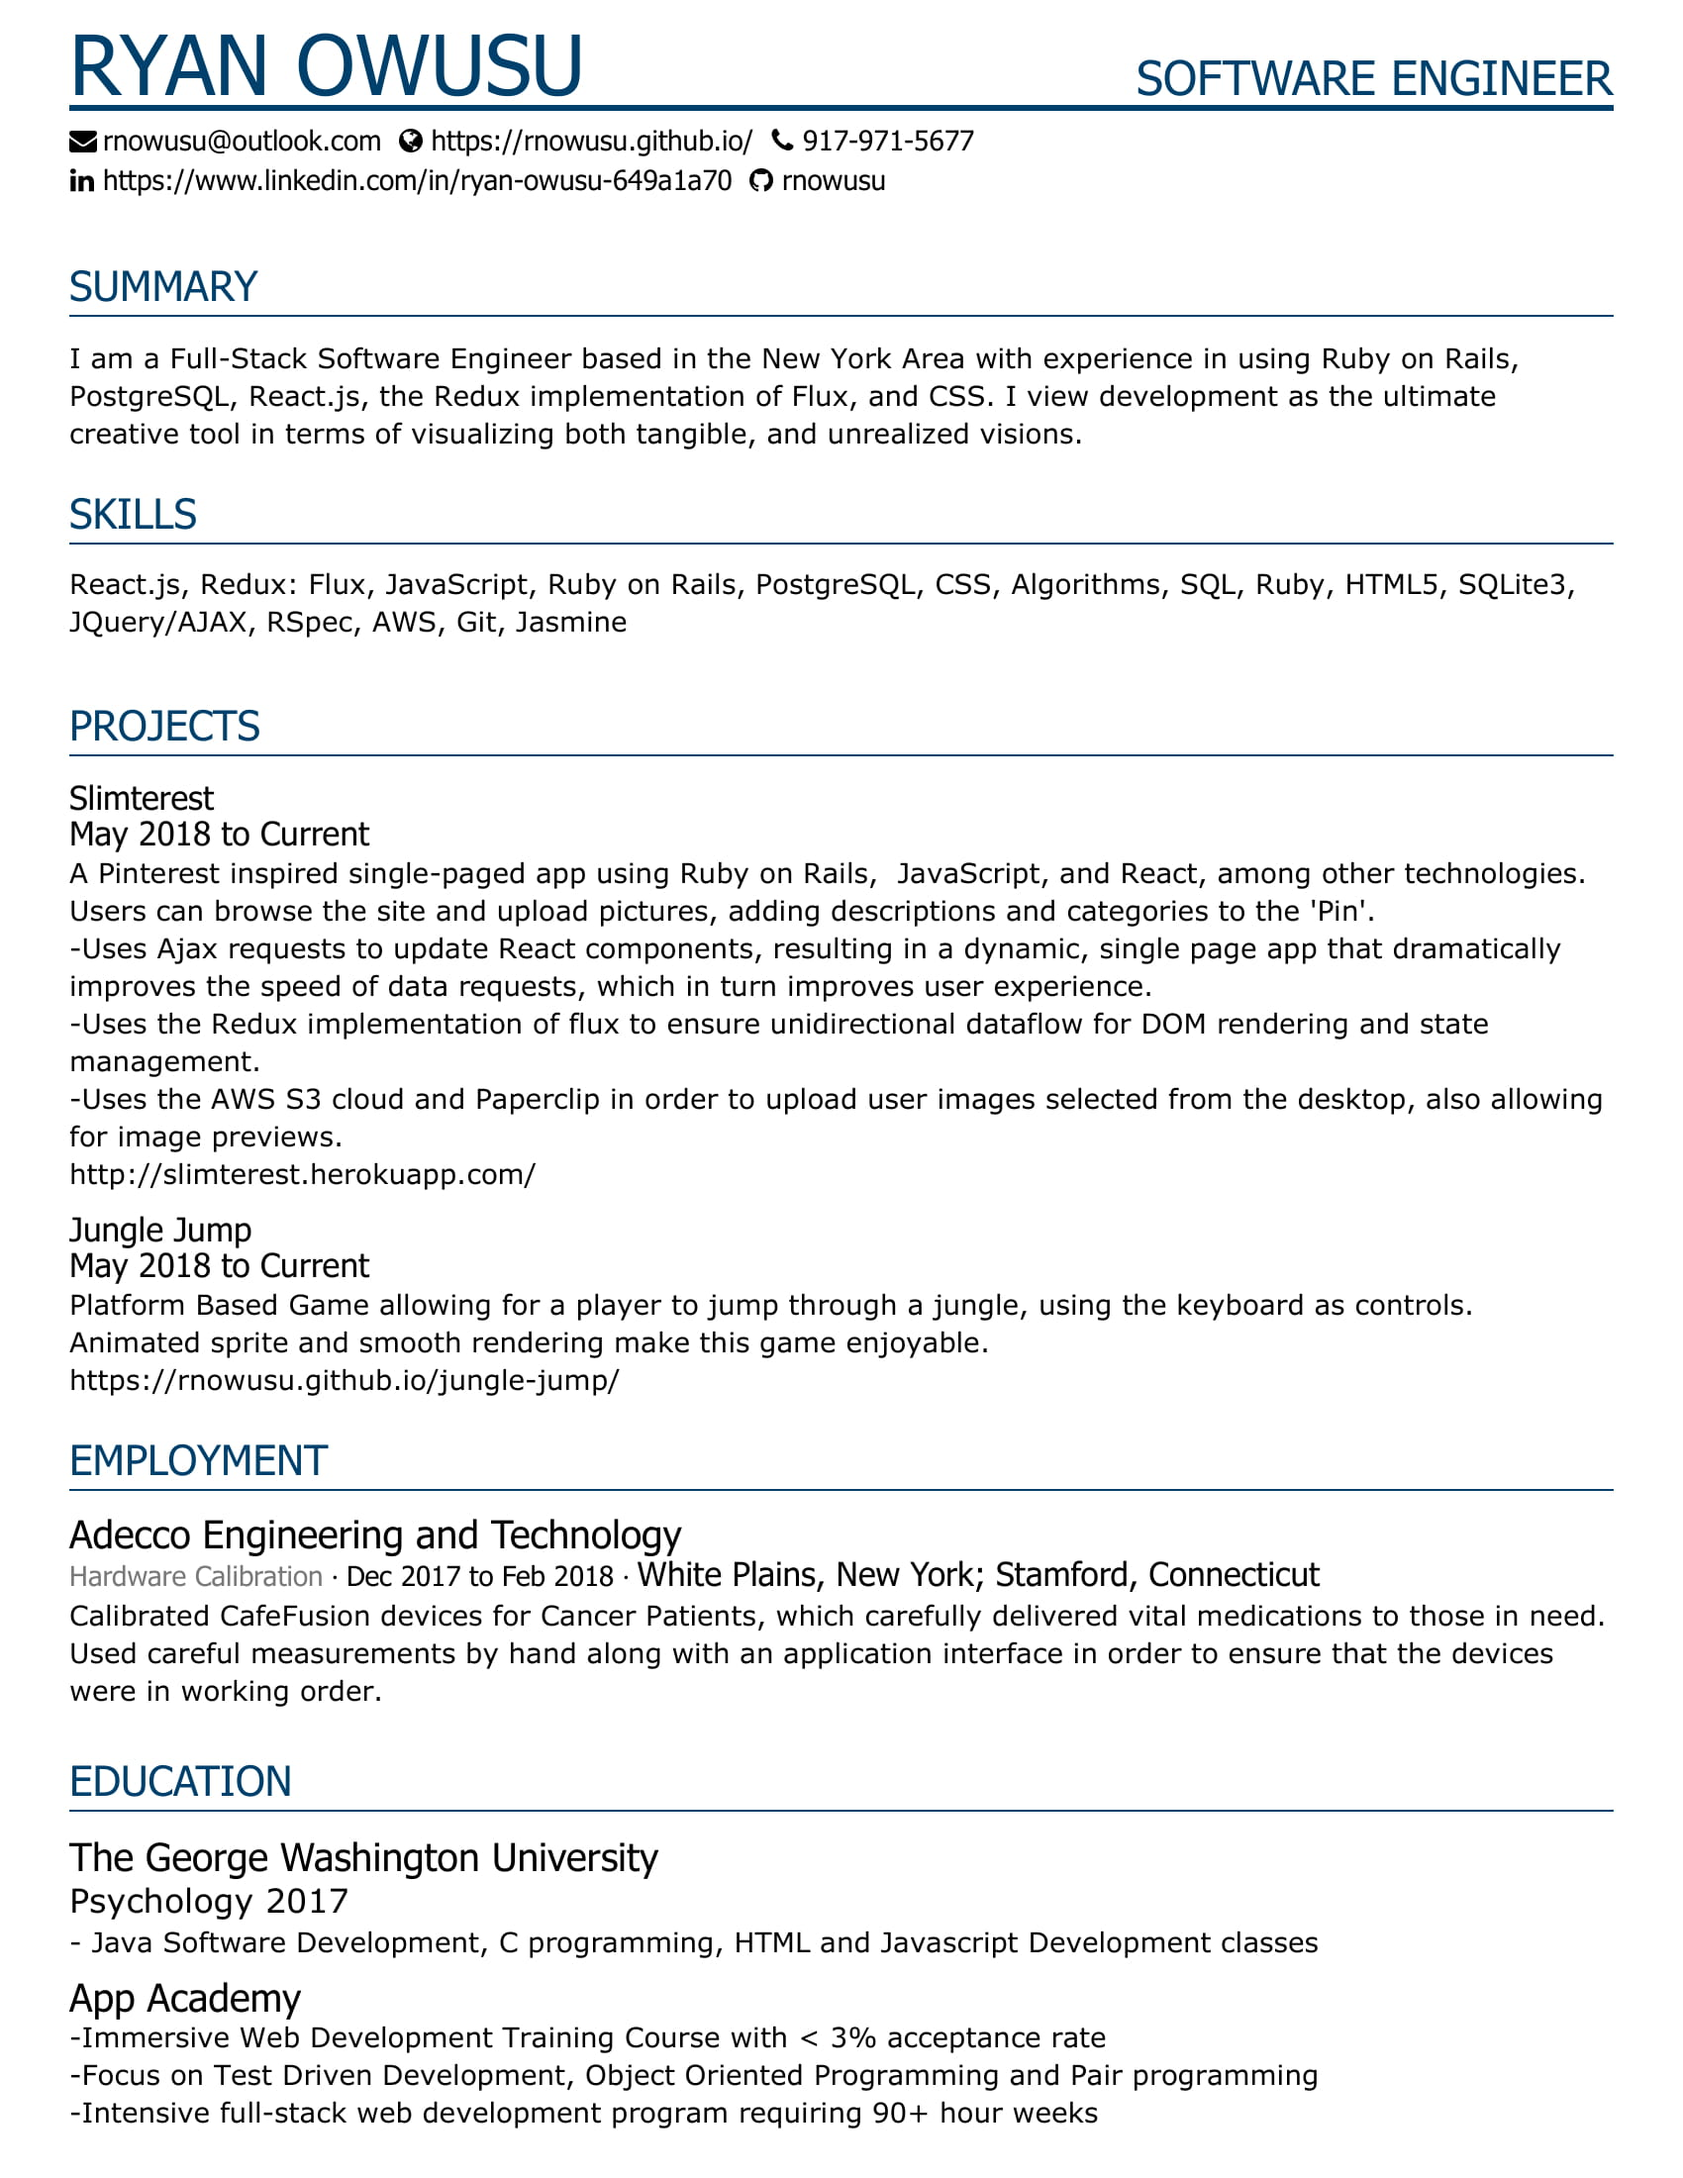
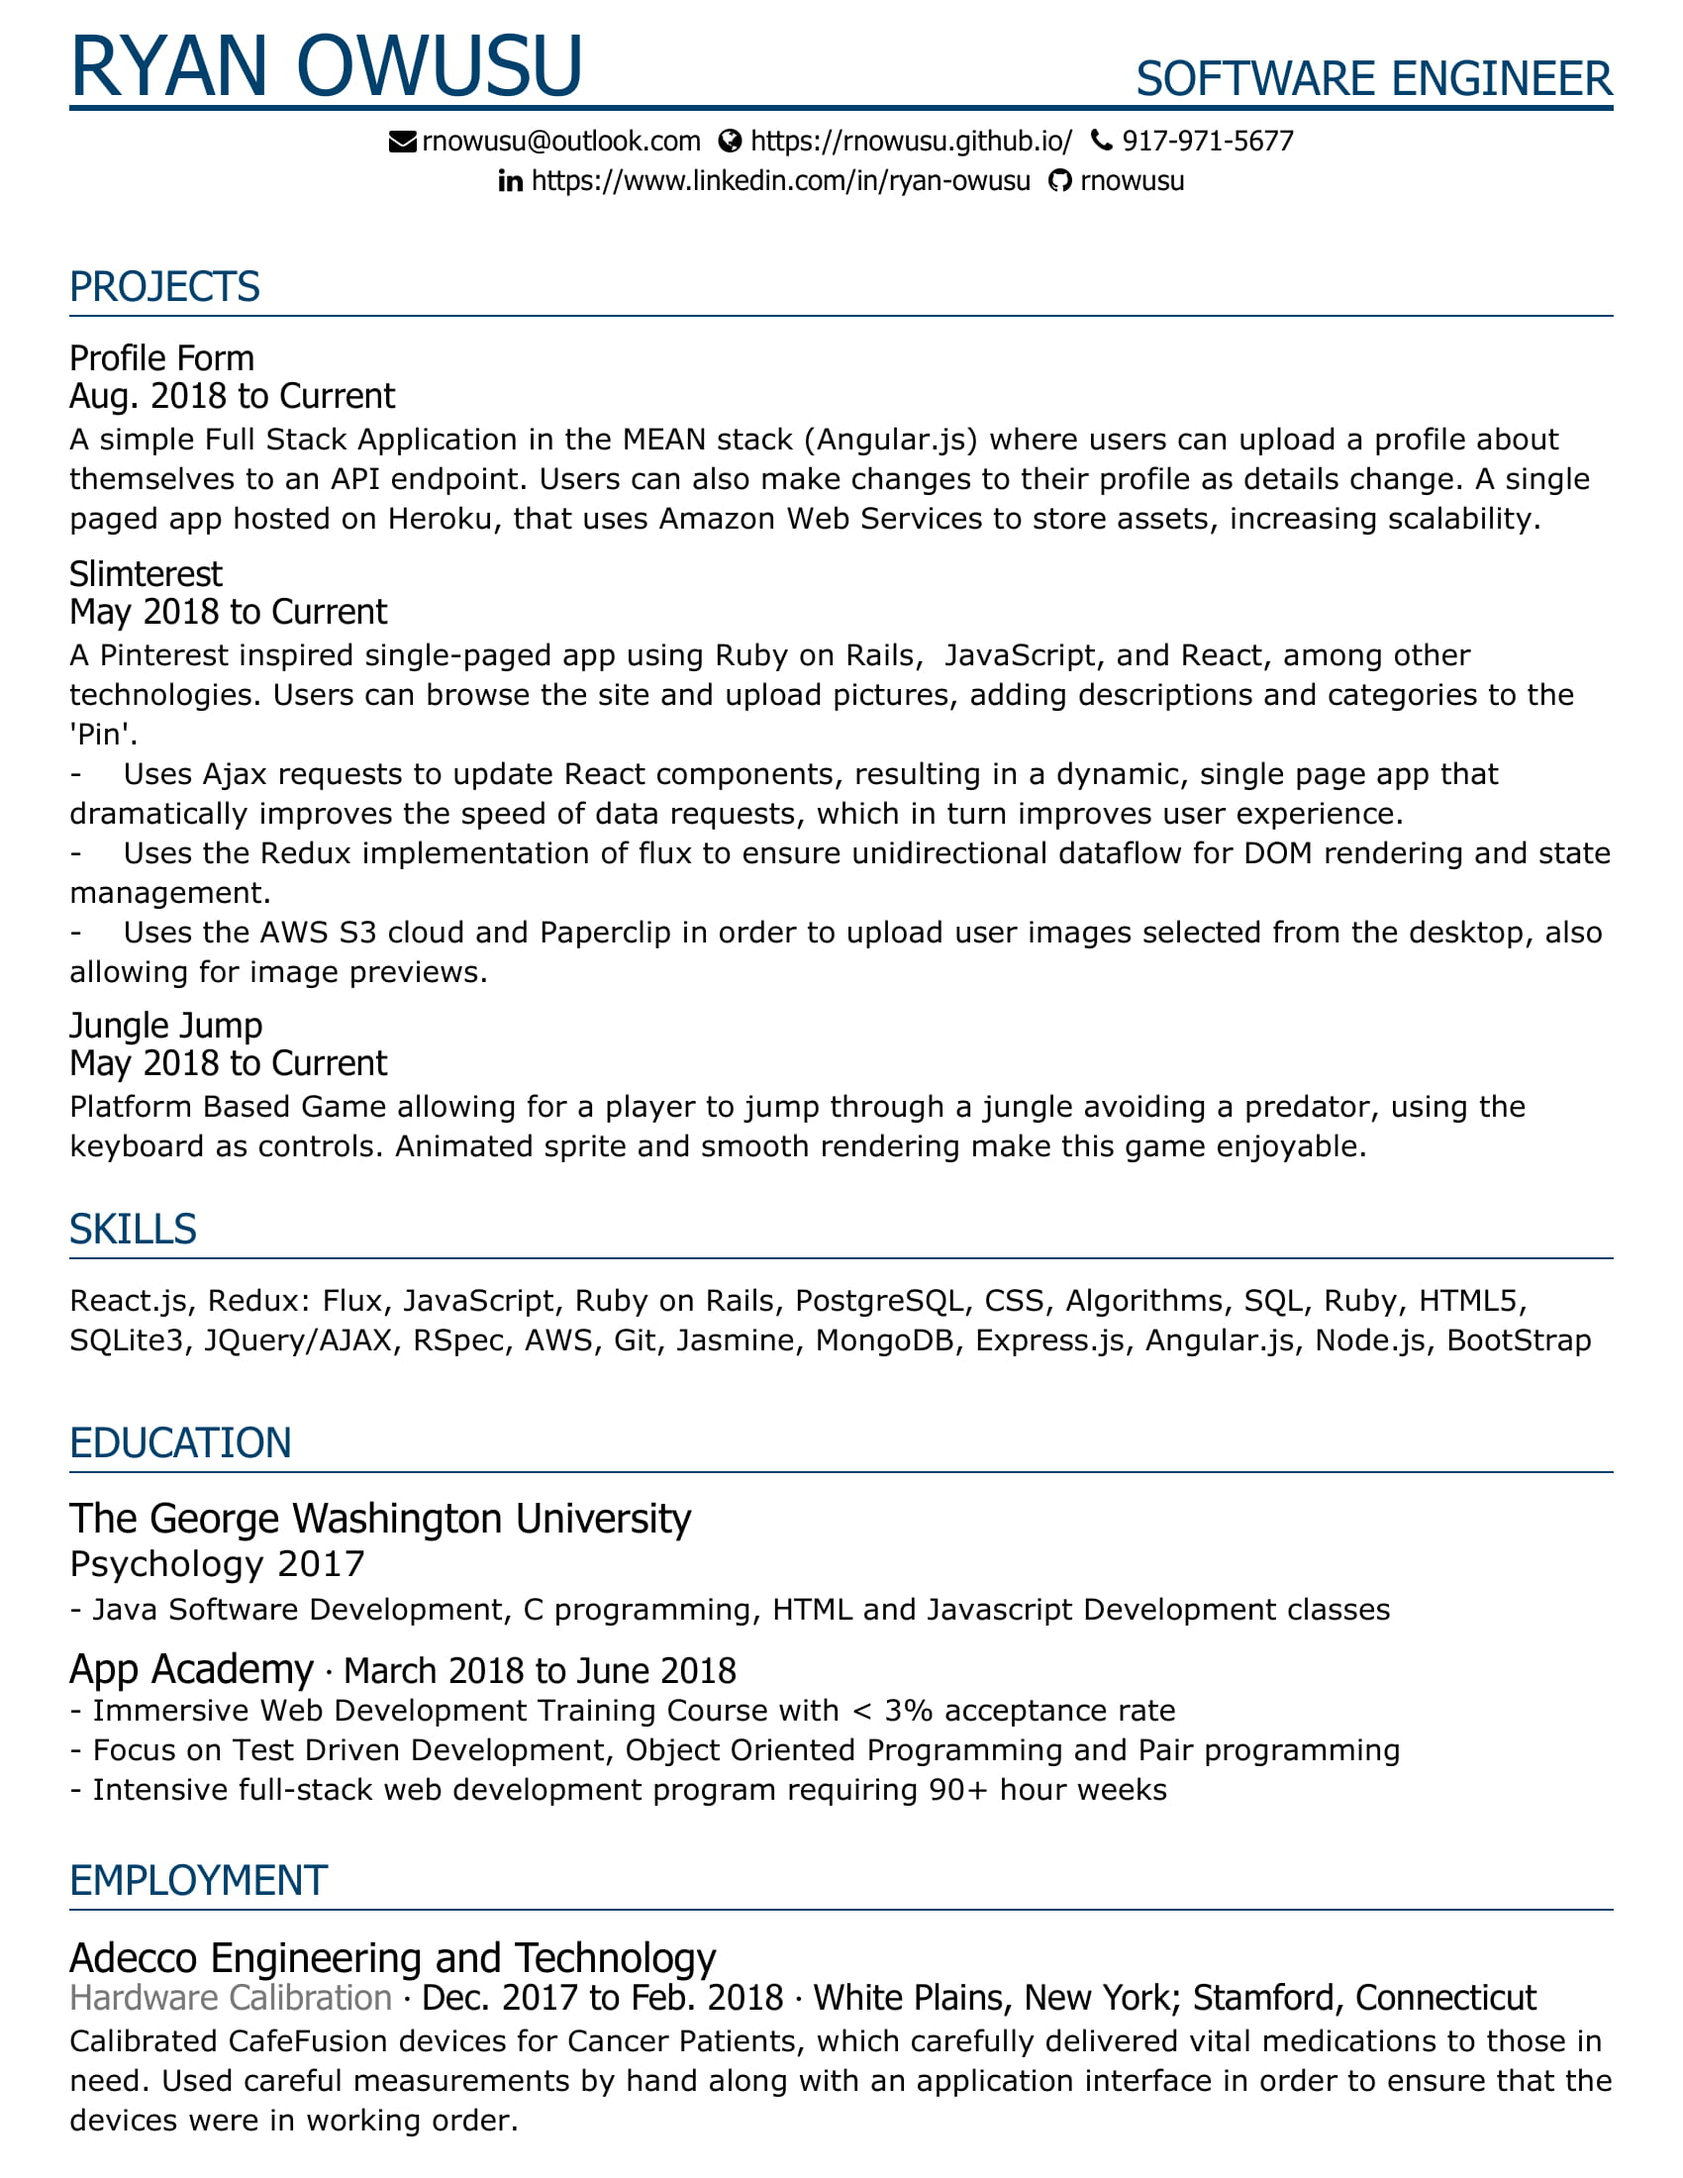
updated site, added updated resume, added profile-form project and link

Changed region(s): [[0.0312, 0.1236, 0.9665, 0.9891], [0.0312, 0.0618, 0.7171, 0.0927], [0.9041, 0.3091, 0.9353, 0.34]]

diff --git a/index.html b/index.html
@@ -103,6 +103,7 @@
             <li><a href="#" data-filter="*" class="active">All</a></li>
             <li><a href="#" data-filter=".graphic">Slimterest</a></li>
             <li><a href="#" data-filter=".illustration">Jungle Jump</a></li>
+            <li><a href="#" data-filter=".profile-form">Profile Form</a></li>
             <li><a href="#" data-filter=".photography">Resume</a></li>
           </ol>
         </li>
@@ -133,6 +134,17 @@
             </div>
           </div>
         </div>
+        <div class="col-sm-6 col-md-3 col-lg-3 profile-form isotope-item" style="position: absolute; left: 0px; top: 0px; transform: translate3d(584px, 0px, 0px);">
+          <div class="portfolio-item">
+            <div class="hover-bg"> <a href="img/portfolio1/profile_form.gif" title="Project Title" data-lightbox-gallery="gallery1">
+              <div class="hover-text">
+                <h4>Jungle Jump</h4>
+              </div>
+              <img src="img/portfolio1/profile_form.gif" class="img-responsive" alt="Project Title"> </a>
+              <p>A Simple MEAN stack application</p>
+            </div>
+          </div>
+        </div>
         <div class="col-sm-6 col-md-3 col-lg-3 photography">
           <div class="portfolio-item">
             <div class="hover-bg"> <a href="./img/portfolio1/resume_pdf-1.jpg" title="Project Title" data-lightbox-gallery="gallery1">
@@ -146,6 +158,7 @@
           <div class="project-links">
             <a target="_blank" href="http://slimterest.herokuapp.com/"><p class="project-link">Slimterest</p></a>
             <a target="_blank" href="https://rnowusu.github.io/jungle-jump/"><p class="project-link">Jungle Jump</p></a>
+            <a target="_blank" href="http://profile-form.herokuapp.com/#/profiles"><p class="project-link">Profile Form</p></a>
             <a target="_blank" href="https://rnowusu.github.io/documents/resume_pdf.pdf"><p class="project-link">Resume</p></a>
           </div>
         <!-- <div class="col-sm-6 col-md-3 col-lg-3 graphic">
@@ -232,6 +245,17 @@
       </div>
     </div>
   </div>
+
+  <!--
+    <br><br>
+    <div class="container text-center">
+      <div class="section-title center">
+        <h2>Skills</h2>
+        <hr>
+
+      </div>
+    </div> -->
+
 </div>
 <!-- Contact Section -->
 <div id="contact" class="text-center">
